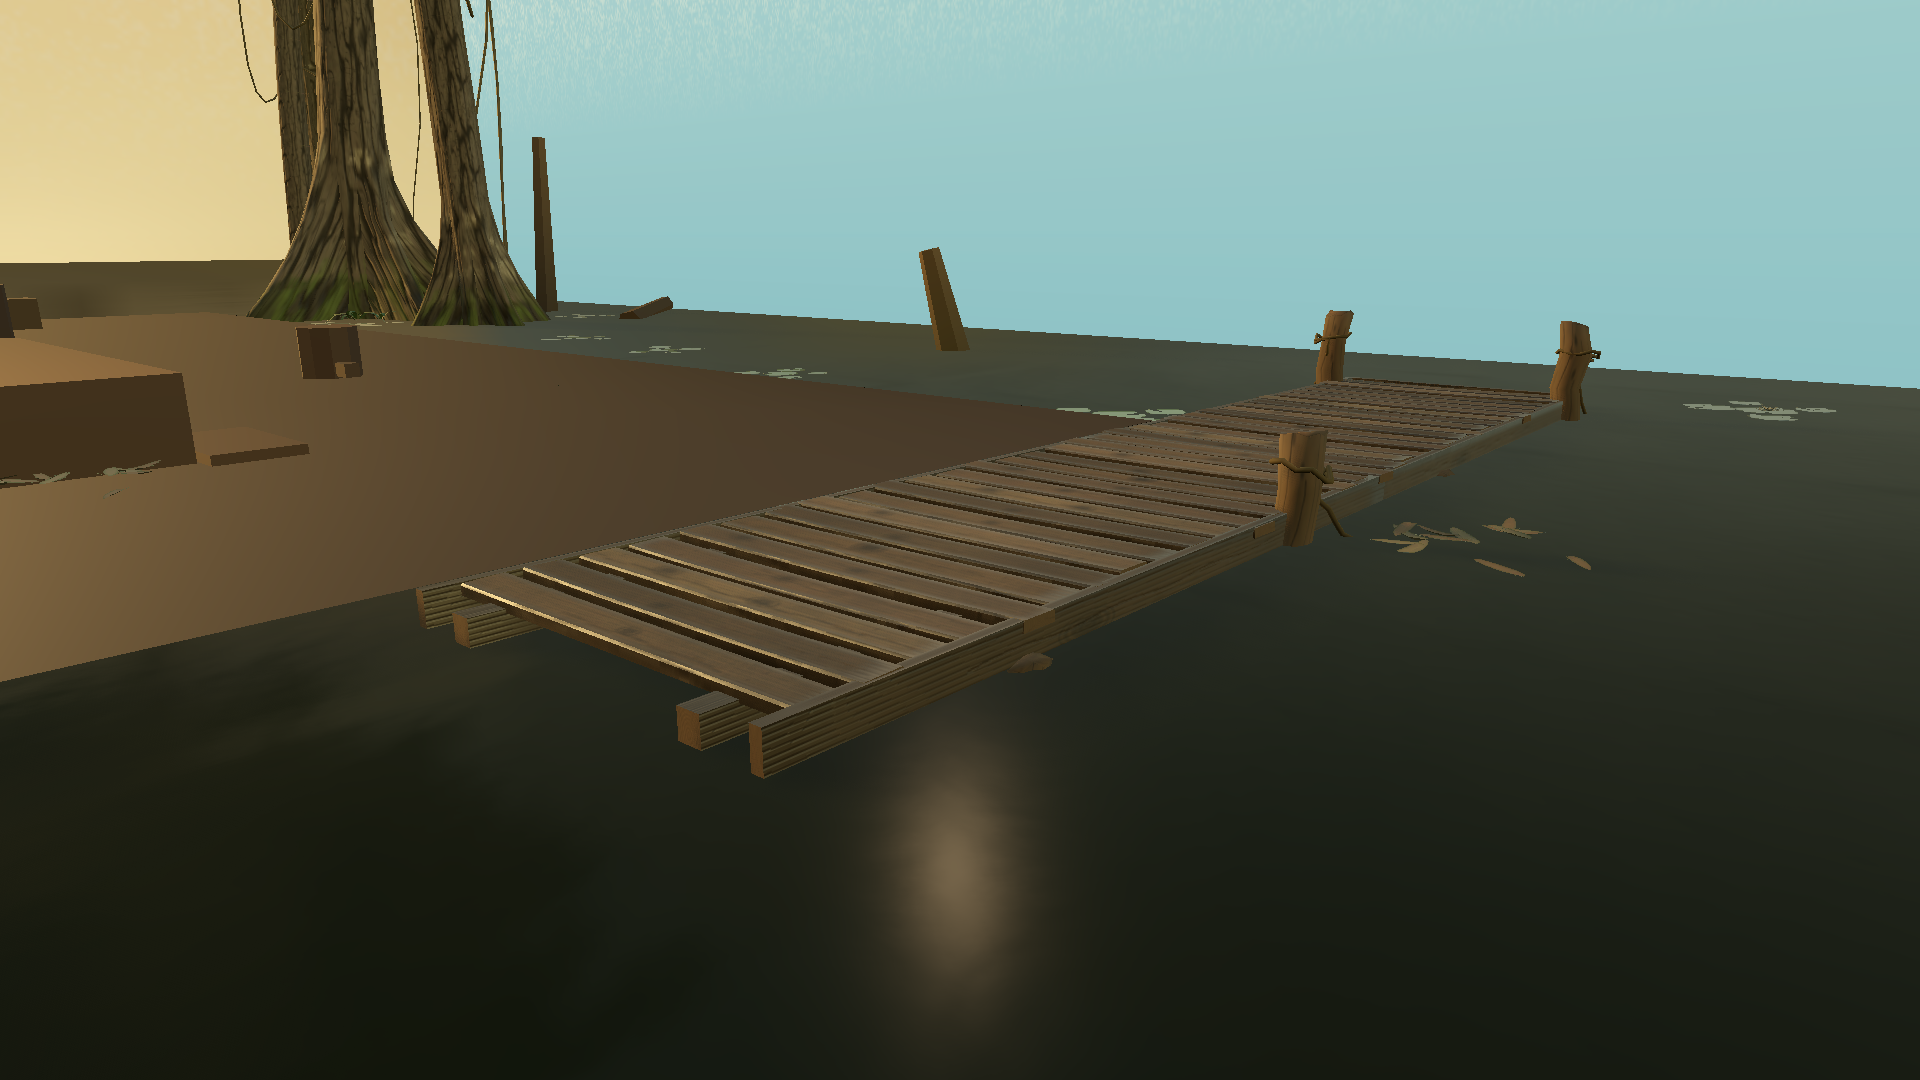
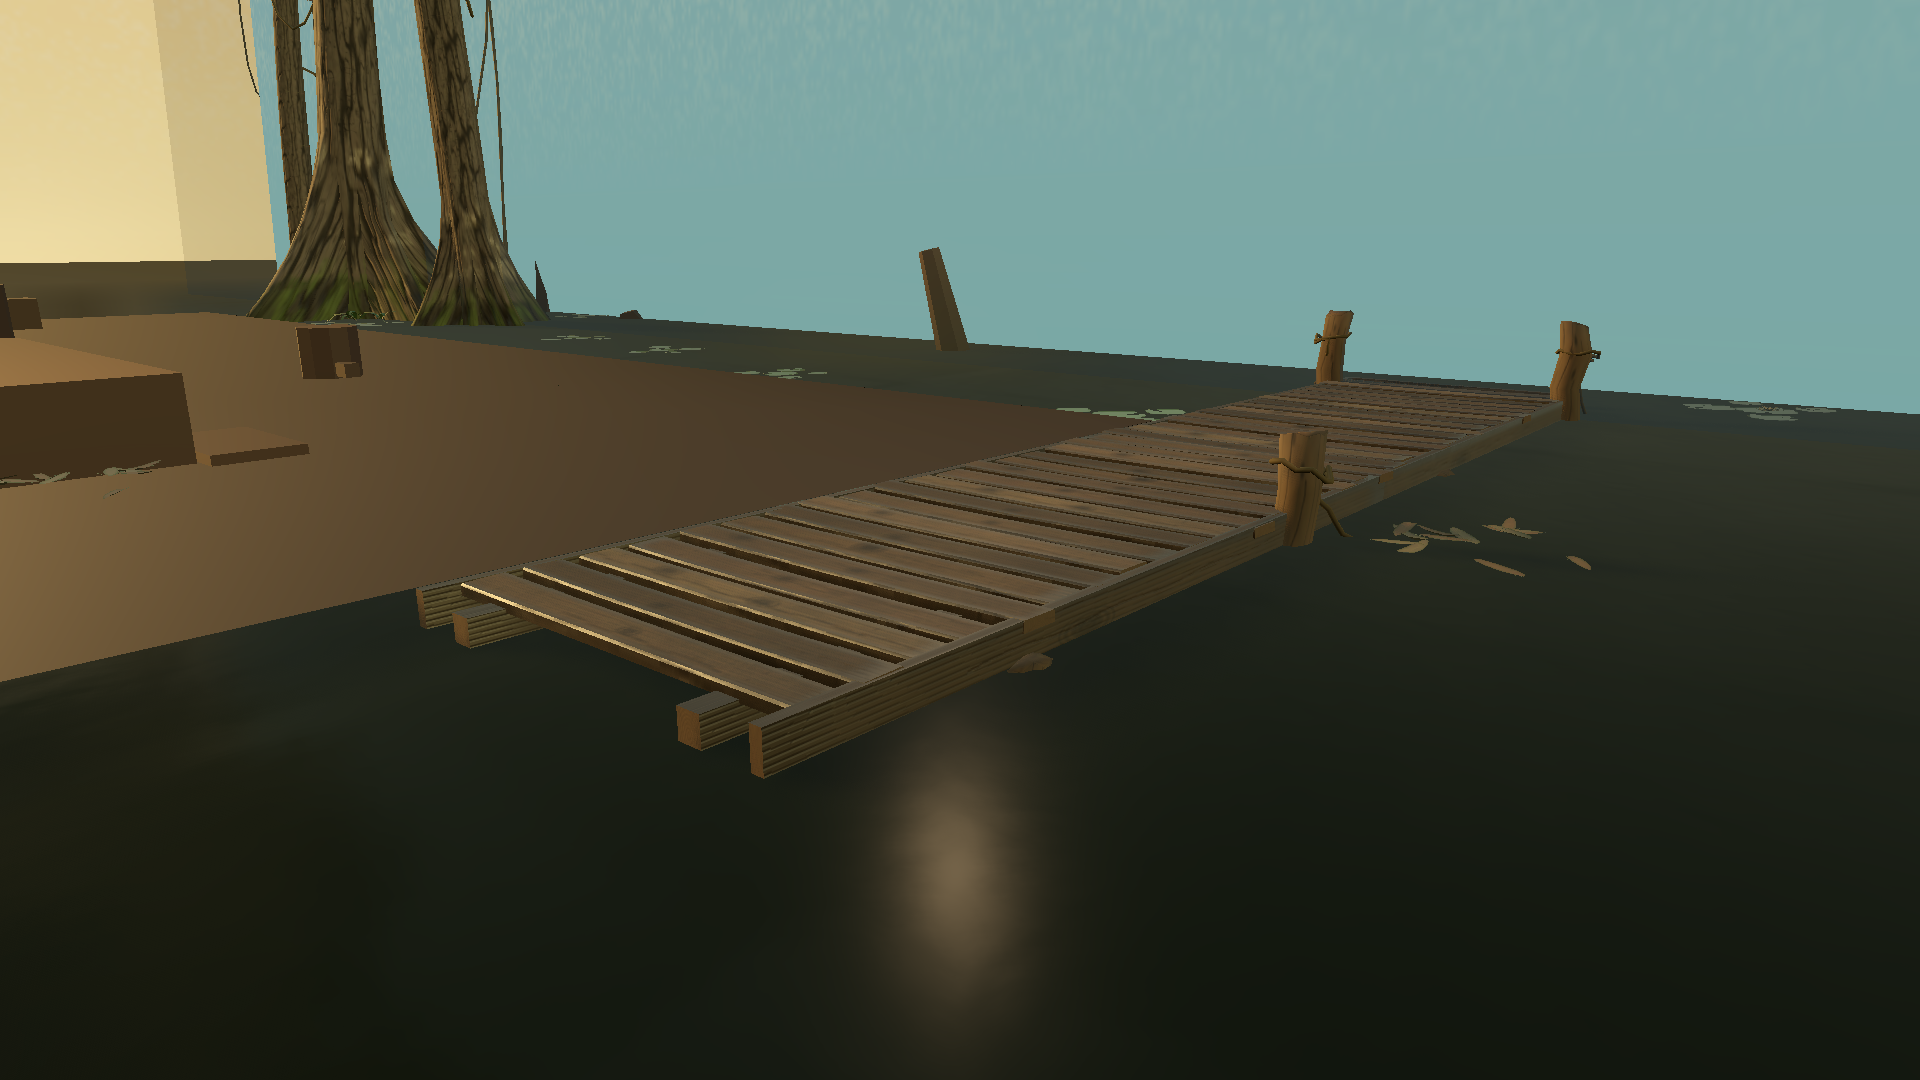
docs(hp001): E2d Vulkan stills after G00 probe and P00 earth
Recapture entrance/hazard/cacao + LOOK cameras on Forward+ (llvmpipe).
P00 reads wet earth, dosel cap is a thin fringe, probe PASS to G00.
Old E2a/E2b/E2c SHAs stay marked replaced. player_maya.gd untouched.

Changed region(s): [[0.0938, 0.0, 1.0, 0.3972]]

diff --git a/docs/hp001/COMPARATIVO_2D_3D.md b/docs/hp001/COMPARATIVO_2D_3D.md
@@ -153,7 +153,7 @@ En el 2D los one-way no entran en `solids()`, así que el mantle no los agarra. 
 
 ## Look (E2d)
 
-La cámara lateral 40×22.5 lleva hijas fijas: banda de cúmulos (`hp001_cuyabeno_sky_2k`, solo el tercio de nubes, franja de juego más oscura/saturada) y **2 franjas** de selva lejana con bruma (`hp001_selva_silhouette`), detrás del carril, sin inclinación extra. Lianas de primer plano en el borde izquierdo del cuadro (`hp001_fg_liana`), fuera del hitbox. Copas y troncos de fondo (MultiMesh + LOD) a lo largo de todo selva-1, z < 0. Cards de tope en `Cam_Dosel` (layer 10) para que el corte de arriba no salga sesgado. Maya crema con outline sutil (cápsula, sin colisión). P00 tierra húmeda con emisión, sin sombras recibidas. Ranas y rocas al tamaño del hitbox; viento con rayas. Capturas en Vulkan Forward+. `player_maya.gd` no se tocó.
+La cámara lateral 40×22.5 lleva hijas fijas: banda de cúmulos (panorama + puffs), **2 franjas** de selva lejana con bruma, y lianas/tallos a la izquierda del cuadro (fuera del hitbox). Copas y troncos de fondo (MultiMesh + LOD) a lo largo de todo selva-1, z < 0. El tope de `Cam_Dosel` es un fleco de copa (textura volteada, layer 10), no una barra negra ni un corte sesgado. Maya crema con outline sutil. P00 tierra húmeda: la follow cam no ve el blackwater y la fascia + shader `fog_disabled` evitan el losa negra. Ranas y rocas al tamaño del hitbox; viento con rayas. Capturas en Vulkan Forward+. `player_maya.gd` no se tocó.
 
 ## Checks
 
@@ -162,7 +162,7 @@ La cámara lateral 40×22.5 lleva hijas fijas: banda de cúmulos (`hp001_cuyaben
 | `maya_feel_check` | **54/54 PASS** |
 | `hp001_lod_hole_check` | **PASS** (constantes + escena instanciada) |
 | `SELVA_CHECK` | 21 / 6 / 24 / 2 / 1 · offset (0, 1, 24.1256) · P01 6.6667 |
-| `selva1_run_probe` | **FAIL** far_x=93.31 · G00=0 · 5 muertes. Pozo verificado y=−18.45 |
+| `selva1_run_probe` | **PASS** ticks=1556 · far_x=194.32 · G00=1 · 0 muertes. Pozo verificado y=−18.45 |
 | `player_maya.gd` | no tocado |
 | capturas | Vulkan 1.4 Forward+ (llvmpipe), no OpenGL |
 
@@ -172,19 +172,19 @@ SHA viejos de E2c: **reemplazados** (ver `build_report.json`).
 
 | archivo | sha256 |
 |---|---|
[26 lines of base64/hex data omitted]

diff --git a/docs/hp001/HP001_E2d_VRAM_UHD.md b/docs/hp001/HP001_E2d_VRAM_UHD.md
@@ -2,7 +2,7 @@
 
 Same method as [`HP001_E2c_VRAM_UHD.md`](HP001_E2c_VRAM_UHD.md). Lavapipe counters are **not** the UHD number.
 
-E2d adds follow-cam cards (cumulus + 2 jungle strips + FG lianas), corridor MultiMesh trees, Maya outline, dosel cap cards, and the selva-1 earth fill. Textures unchanged from E2c.
+E2d adds follow-cam cards (cumulus + 2 jungle strips + FG lianas), corridor MultiMesh trees, Maya outline, dosel cap fringe, and the selva-1 earth fascia. Textures unchanged from E2c.
 
 ## 1–4. UHD total
 
@@ -14,10 +14,10 @@ LOOK-001 stills at 1920×1080, `force_lod0`. Captured with `VK_ICD_FILENAMES=lvp
 
 | View | Primitives | Draws |
 |---|---:|---:|
-| gameplay | 130,520 | 201 |
-| laguna | 104,016 | 145 |
-| dosel | 238,333 | 198 |
-| dock closeup | 71,277 | 80 |
+| gameplay | 131,332 | 210 |
+| laguna | 104,020 | 146 |
+| dosel | 239,143 | 206 |
+| dock closeup | 71,279 | 80 |
 | pods | 81,474 | 84 |
 | cmp_bg | 120,968 | 63 |
 | Hard cap | 350,000 | 250 |
@@ -27,9 +27,9 @@ LOOK-001 stills at 1920×1080, `force_lod0`. Captured with `VK_ICD_FILENAMES=lvp
 
 | Shot | Primitives | Draws | maya_px |
 |---|---:|---:|---:|
-| entrance | 66,906 | 113 | 55.68 |
-| hazard | 42,666 | 68 | 56.06 |
-| cacao | 44,657 | 89 | 55.68 |
+| entrance | 67,714 | 121 | 55.68 |
+| hazard | 43,474 | 76 | 56.06 |
+| cacao | 45,463 | 96 | 55.68 |
 
 All views under 350k / 250 draws.
 
@@ -37,9 +37,9 @@ All views under 350k / 250 draws.
 
 `SELVA_CHECK` platforms=21 hazards=6 pickups=24 checks=2 goal=1. Pit `kill_y=−18.4167`, play `player.kill_y=−80`. Subtitle **Laguna negra de Sucumbíos**.
 
-`selva1_run_probe` **FAIL** far_x=93.31 G00=0 (5 deaths). Pit line verified (feet y=−18.45). `player_maya.gd` not modified.
+`selva1_run_probe` **PASS** ticks=1556 far_x=194.32 G00=1 deaths=0. Pit line verified (feet y=−18.45 on earlier fail). `player_maya.gd` not modified.
 
-HEAD: `78a7316376b396fce73636e56fa5ef1e1c6da2af` (`cursor/hp001-e1-cuyabeno`). Draft PR, no merge.
+HEAD: stamped next to this file after the stills commit. Draft PR, no merge.
 
 ## 6. sha256
 
